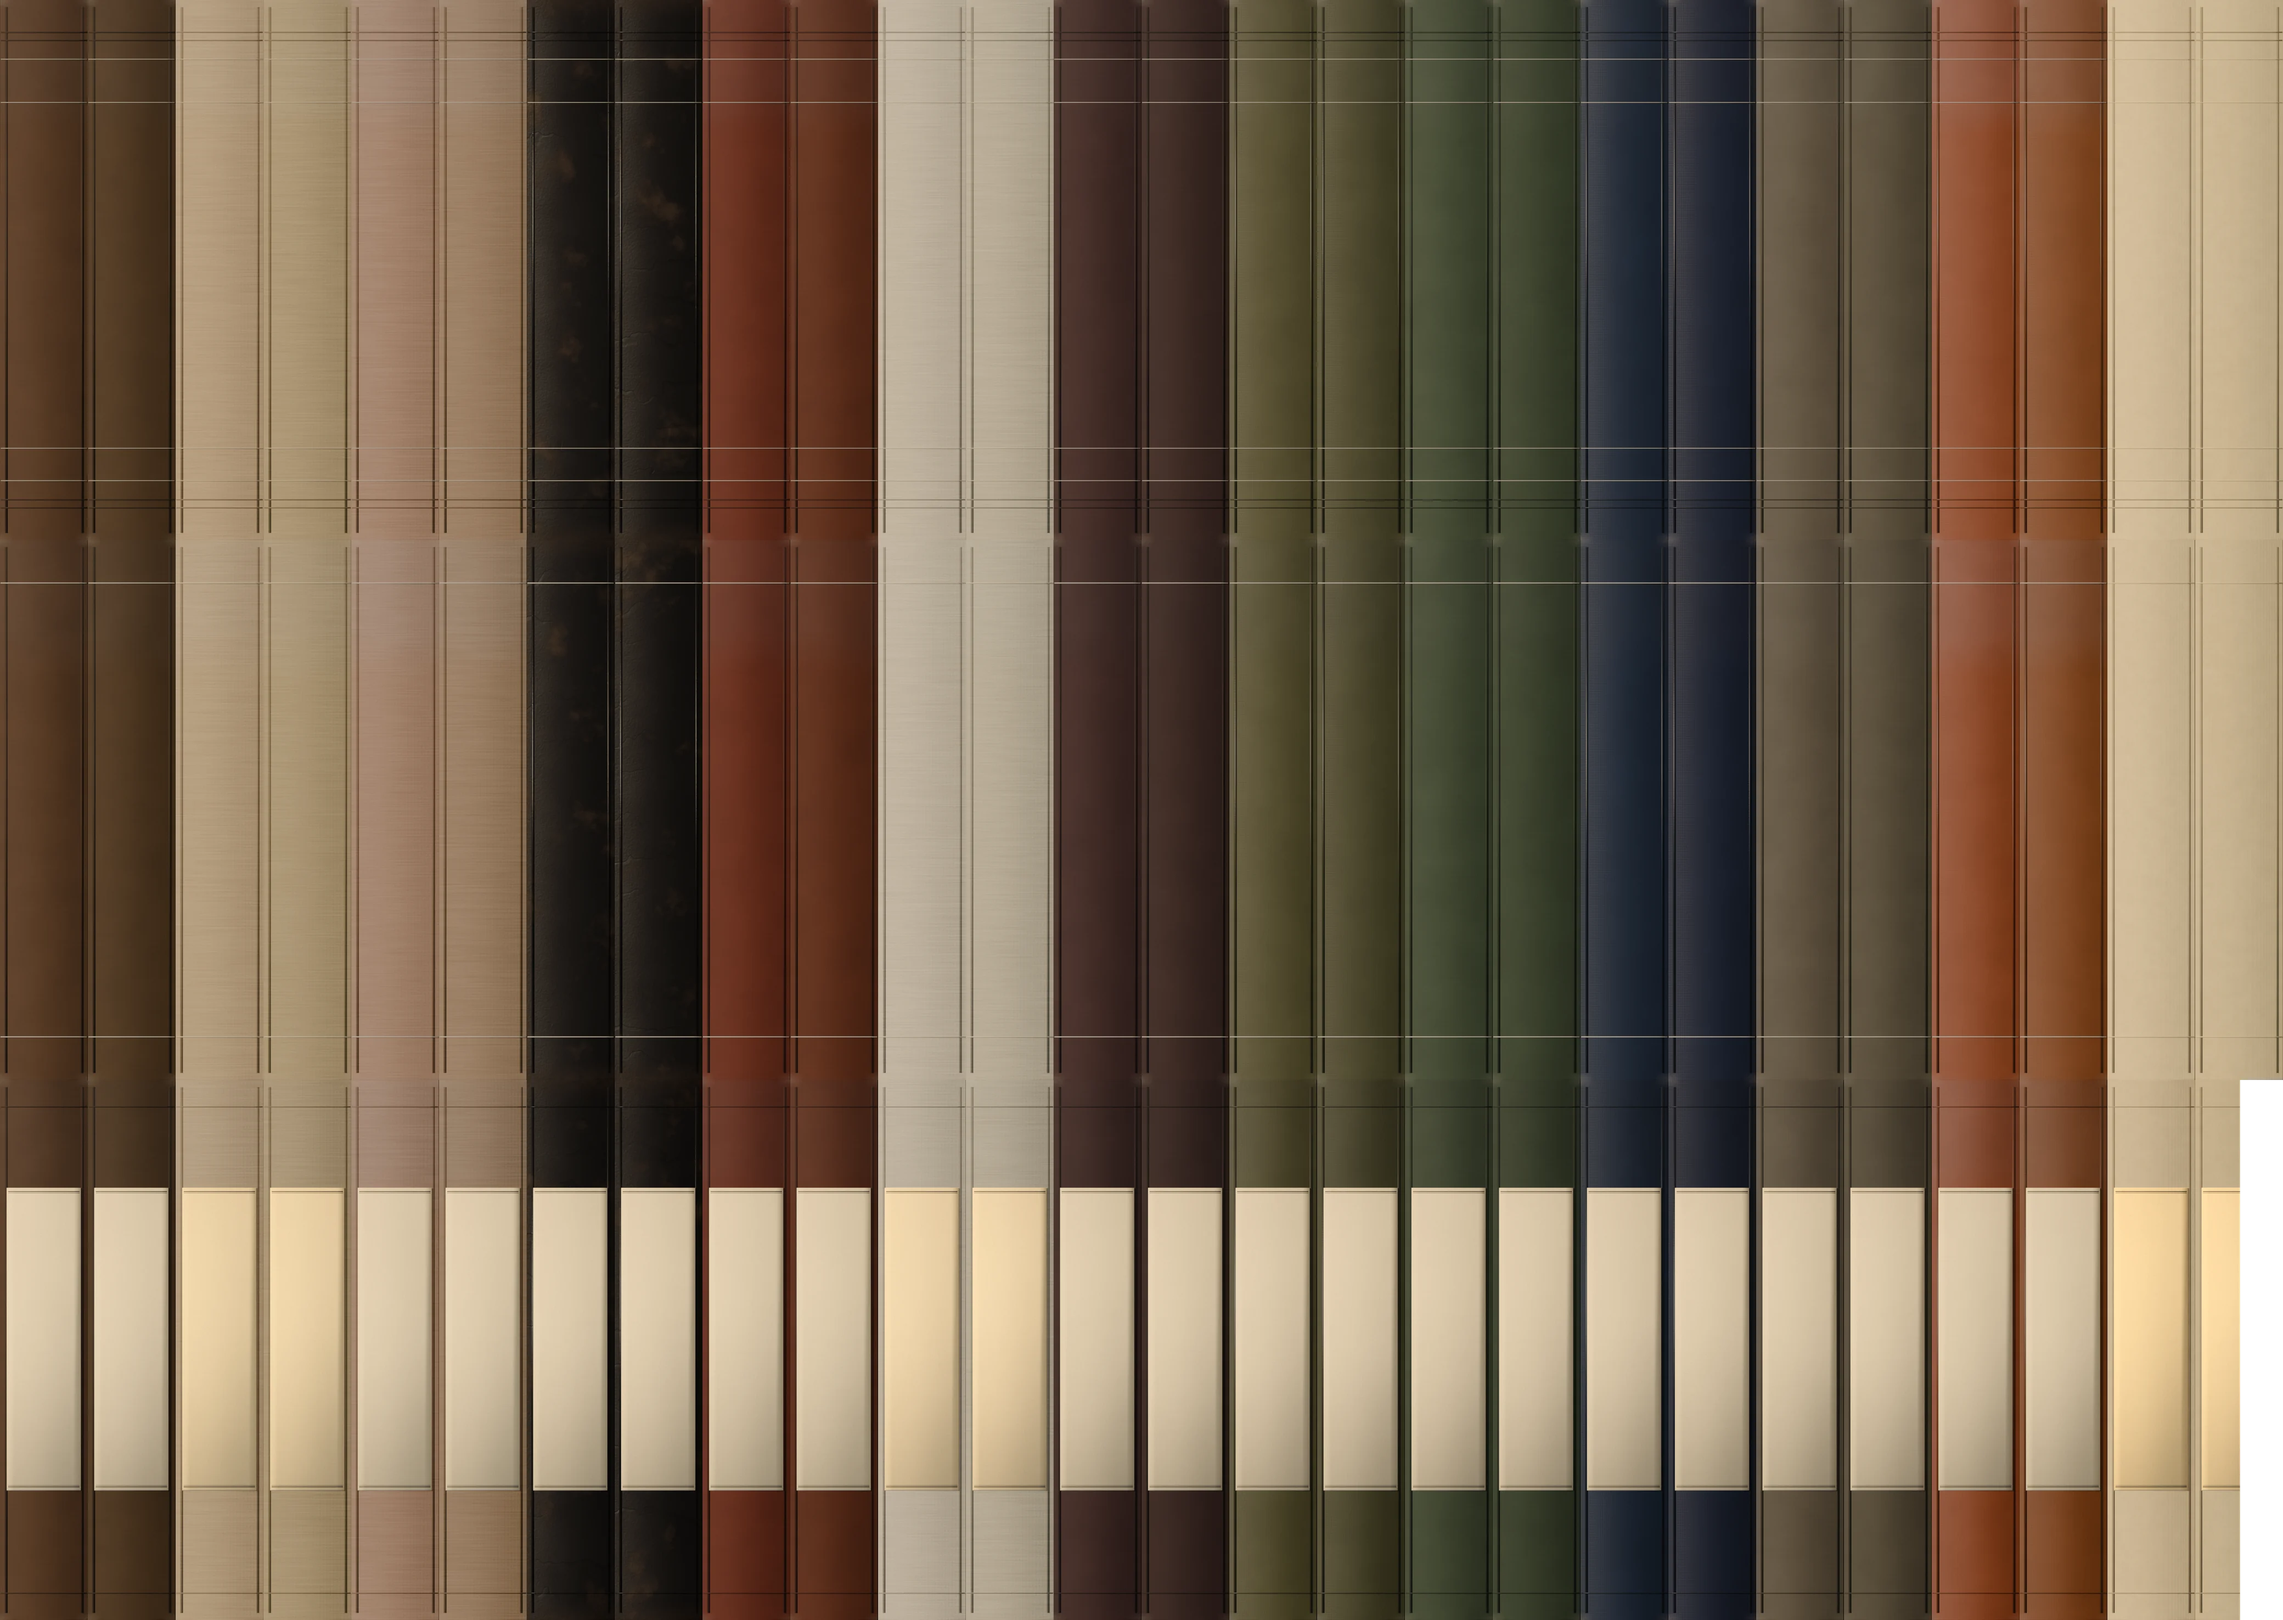
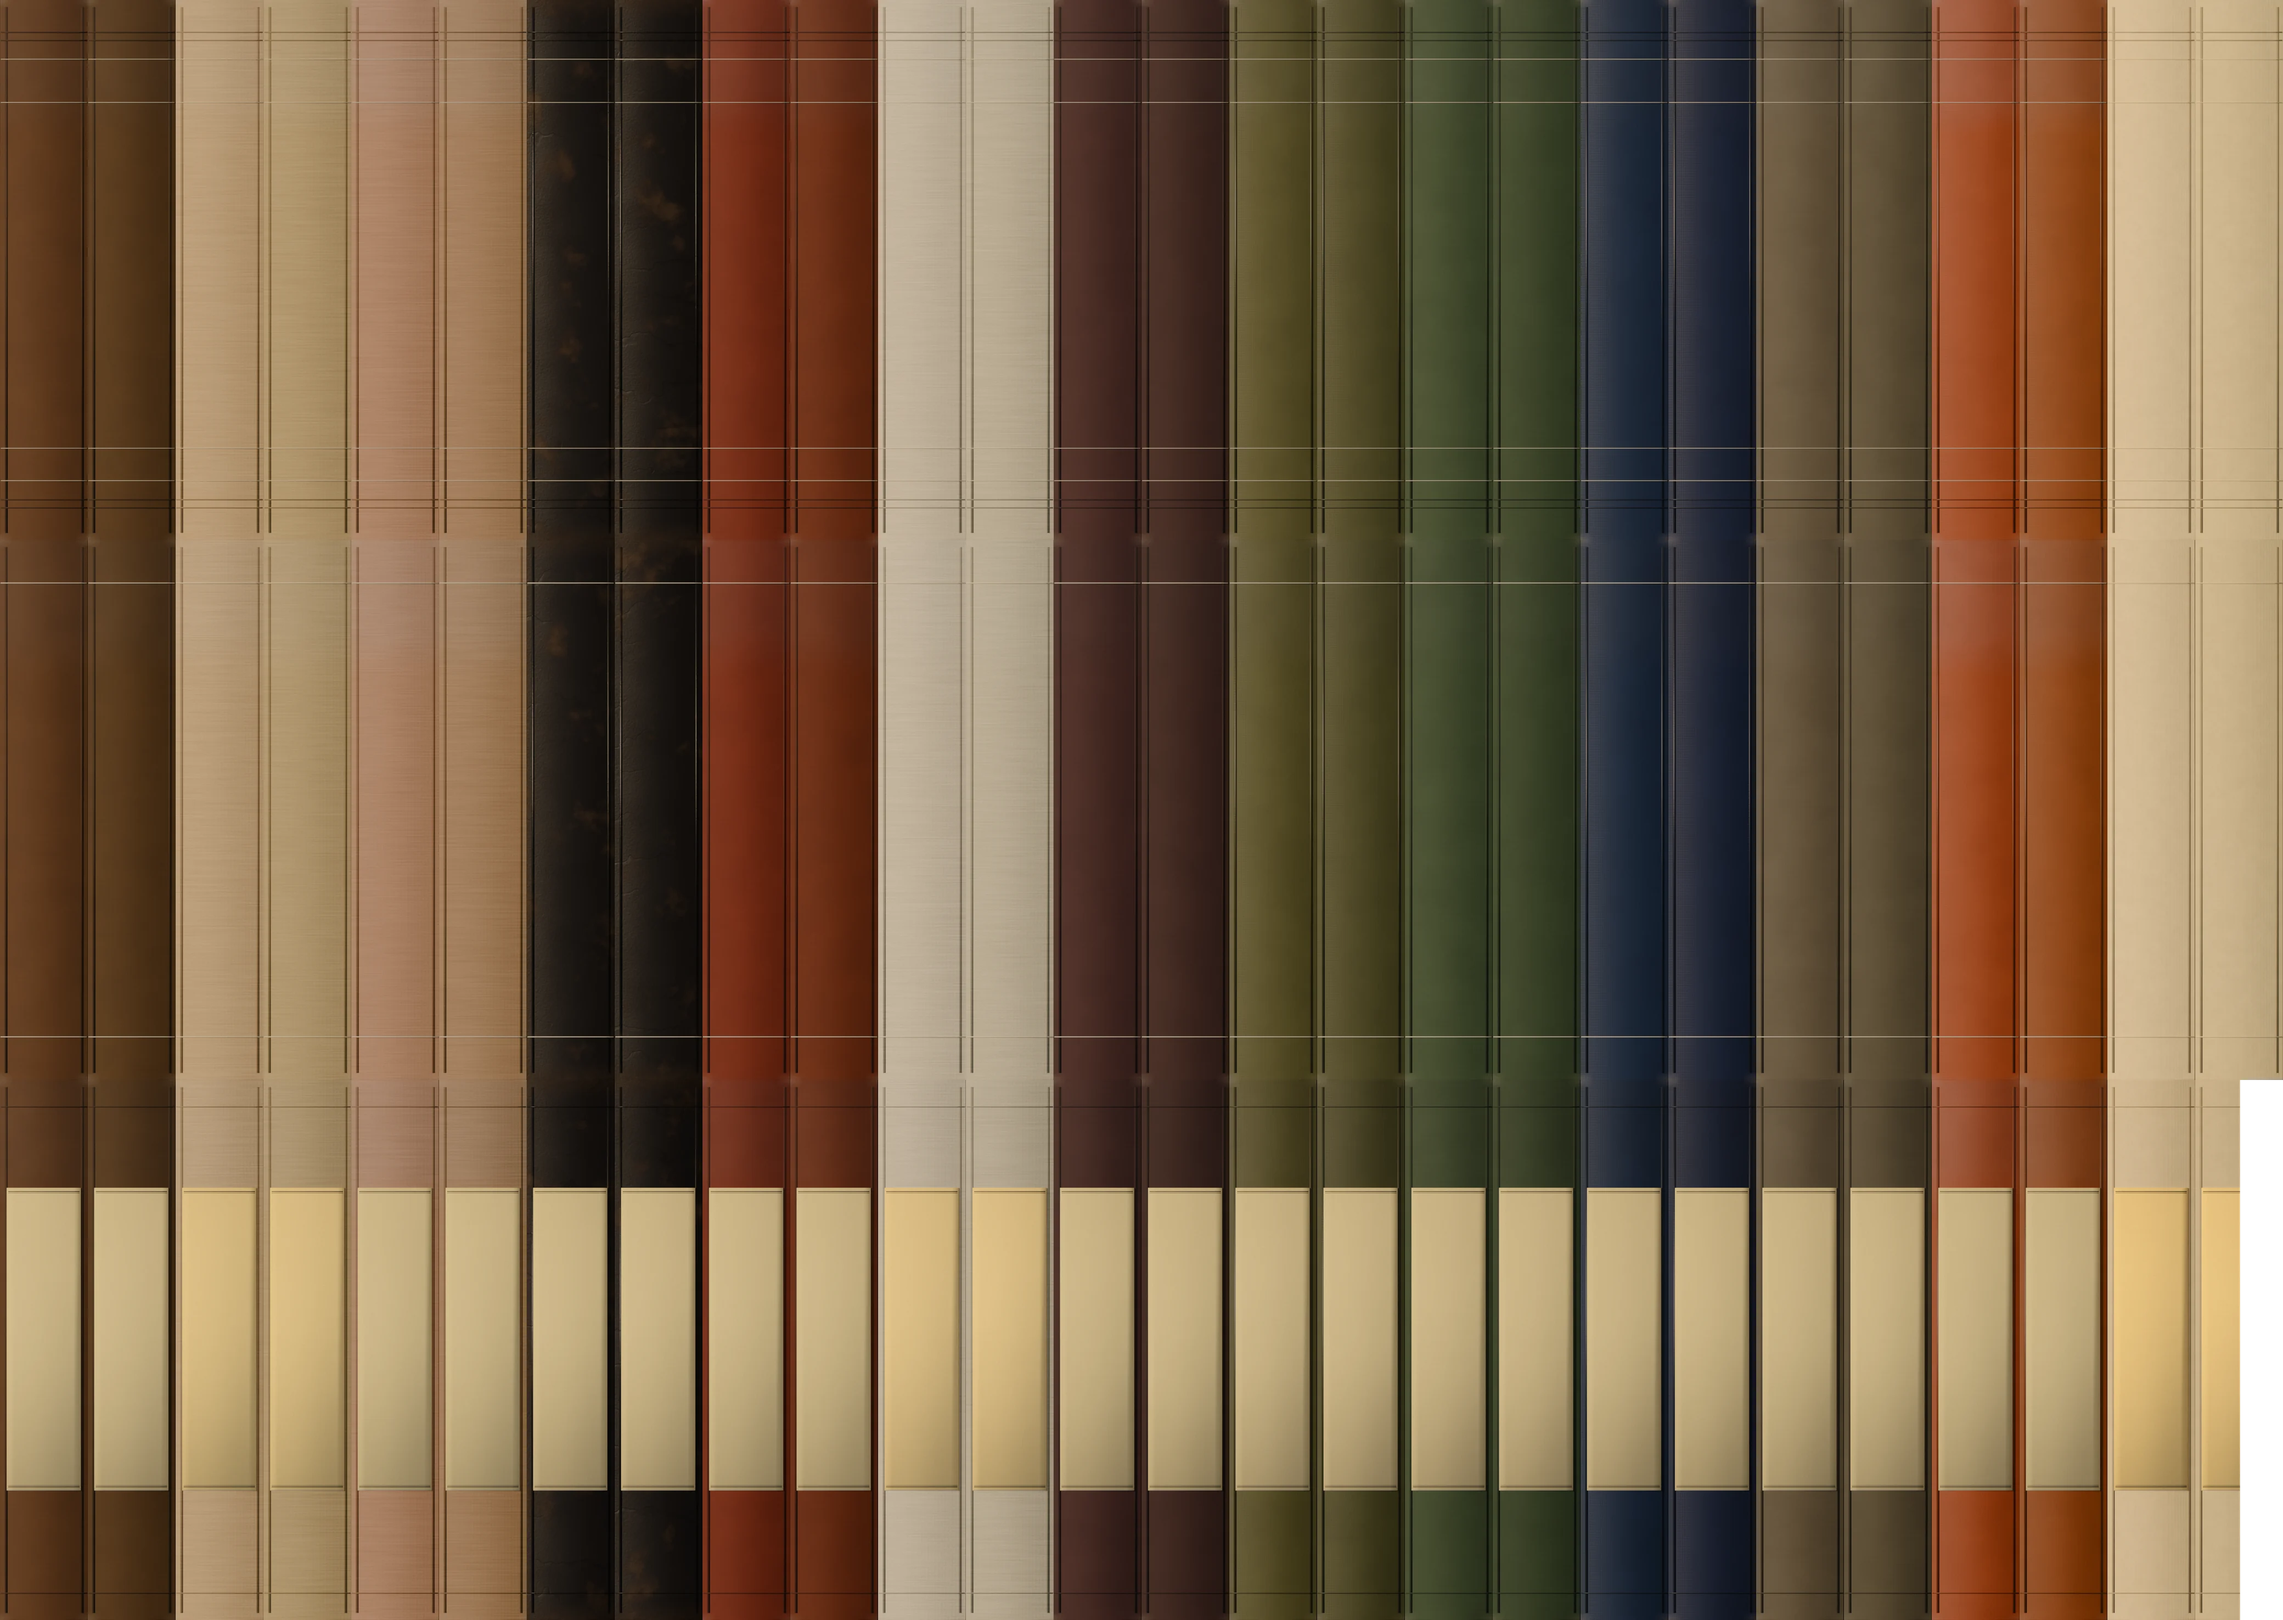
Ivory/Sumi: more saturated spines; Sumi tags to light ochre

Changed region(s): [[0.0, 0.7168, 1.0, 0.935]]

diff --git a/index.html b/index.html
@@ -1041,8 +1041,8 @@ body.portrait:not(.compact) .topbar .lbl{display:none}
 :root[data-theme=sumi] .spine.light .t{color:#1F1C19;font-weight:inherit;background:none;box-shadow:none;text-shadow:none}
 :root[data-theme=sumi] .spine.light .t::after{display:none}
 :root[data-theme=sumi] .spine.plabel .t{color:#1F1C19;background:none;box-shadow:none;text-shadow:none}
-:root[data-theme=sumi] .shelf .genre-tag,:root[data-theme=sumi] .shelf .range-tag{background:linear-gradient(#E9E0CE,#D3C8B2);color:#25221E;box-shadow:0 0 0 1px #24221F,inset 0 1px 0 rgba(255,255,255,.35),0 1px 2px rgba(0,0,0,.4);font-size:8.5px;text-shadow:none}
-:root[data-theme=sumi] .spine .slip{background:linear-gradient(#E9E0CE,#CFC4AE)}
+:root[data-theme=sumi] .shelf .genre-tag,:root[data-theme=sumi] .shelf .range-tag{background:linear-gradient(#D8C497,#BFA774);color:#2A2218;box-shadow:0 0 0 1px #24221F,inset 0 1px 0 rgba(255,255,255,.35),0 1px 2px rgba(0,0,0,.4);font-size:8.5px;text-shadow:none}
+:root[data-theme=sumi] .spine .slip{background:linear-gradient(#D8C497,#BCA571)}
 :root[data-theme=sumi] .spine .lent{background-color:#E2D8C4}
 :root[data-theme=sumi] .spine .sno{color:#D6CBB3;text-shadow:0 .5px 0 rgba(0,0,0,.5)}
 :root[data-theme=sumi] .wall.zoomed .shelf.z::after{background:linear-gradient(180deg,rgba(0,0,0,.10) 0,rgba(0,0,0,.20) 50%,rgba(0,0,0,.30));mix-blend-mode:normal}
@@ -1079,7 +1079,7 @@ const FORMATS = ['Hardback', 'Paperback', 'Ebook', 'Audiobook', 'Library loan', 
 const COLORS = SPR.colors;          // binding colours, same order as the sprite atlas columns
 const STYLES = SPR.styles;          // antique | smooth | label
 /* ---------- colour themes: the classic mahogany room plus recoloured sets under themes/<id>/ ---------- */
-const THEMES = {"classic": {"name": "Classic Mahogany", "blurb": "The original \u2014 polished mahogany, brass lamps, candlelight", "swatch": ["#4a2616", "#c9a45a", "#e9dcc0"], "colors": [], "chrome": "#0b0c0c"}, "sage": {"name": "Sage", "blurb": "Painted sage joinery, limed oak, pewter and afternoon light", "swatch": ["#8E9A88", "#CFCABB", "#EEE8DA"], "colors": ["#4d382a", "#6e5c47", "#70675e", "#2a251f", "#69453b", "#665f57", "#433336", "#3e402d", "#2d3b31", "#292e3c", "#41484d", "#66362a", "VELLUM"], "chrome": "#0b0c0c", "light": [1, 2, 5, 12], "weights": [9, 5, 6, 8, 8, 4, 8, 9, 8, 9, 8, 7, 6], "variants": 2, "rendered": true, "geo": {"flames": [[402.1, 316.0], [777.9, 316.0]], "hoods": [], "sun": [[0, 0], [760, 0], [520, 820], [0, 820]], "ladder": {"x": 847.5, "y": 117.5, "x1": 966.0, "y1": 820.0, "cx": 885.5}}}, "ivory": {"name": "Ivory", "blurb": "Ivory panelled joinery, brushed brass, pleated shades and soft daylight", "swatch": ["#E2DCD1", "#CDBA92", "#2A5450"], "colors": ["#3b291e", "#7d6a55", "#7d7567", "#211f1f", "#493938", "#857c6d", "#3a2b31", "#35382a", "#23403b", "#1a202e", "#2c373f", "#513221", "VELLUM"], "chrome": "#0b0c0c", "light": [1, 2, 5, 12], "weights": [9, 5, 6, 8, 7, 5, 7, 7, 10, 10, 8, 7, 6], "variants": 2, "rendered": true, "geo": {"flames": [[401.5, 328.1], [778.5, 328.1]], "hoods": [], "ladder": {"x": 847.5, "y": 117.5, "x1": 966.0, "y1": 820.0, "cx": 885.5}}}, "sumi": {"name": "Sumi", "blurb": "Dark Japandi: charcoal plaster, smoked oak, washi lanterns at dusk", "swatch": ["#2A1D15", "#CDBFA2", "#B0623E"], "colors": ["#3a2819", "#7b6a55", "#6f5a4a", "#161310", "#442014", "#82796c", "#2c1e1a", "#3b3623", "#2e3123", "#1a1f26", "#42392d", "#613520", "VELLUM"], "chrome": "#0b0c0c", "light": [1, 2, 5, 12], "weights": [9, 6, 6, 9, 7, 5, 7, 8, 8, 9, 7, 8, 6], "variants": 2, "rendered": true, "geo": {"flames": [[402.8, 343.9], [777.2, 343.9]], "hoods": [], "ladder": {"x": 847.5, "y": 118.5, "x1": 966.0, "y1": 820.0, "cx": 885.5}}}};
+const THEMES = {"classic": {"name": "Classic Mahogany", "blurb": "The original \u2014 polished mahogany, brass lamps, candlelight", "swatch": ["#4a2616", "#c9a45a", "#e9dcc0"], "colors": [], "chrome": "#0b0c0c"}, "sage": {"name": "Sage", "blurb": "Painted sage joinery, limed oak, pewter and afternoon light", "swatch": ["#8E9A88", "#CFCABB", "#EEE8DA"], "colors": ["#4d382a", "#6e5c47", "#70675e", "#2a251f", "#69453b", "#665f57", "#433336", "#3e402d", "#2d3b31", "#292e3c", "#41484d", "#66362a", "VELLUM"], "chrome": "#0b0c0c", "light": [1, 2, 5, 12], "weights": [9, 5, 6, 8, 8, 4, 8, 9, 8, 9, 8, 7, 6], "variants": 2, "rendered": true, "geo": {"flames": [[402.1, 316.0], [777.9, 316.0]], "hoods": [], "sun": [[0, 0], [760, 0], [520, 820], [0, 820]], "ladder": {"x": 847.5, "y": 117.5, "x1": 966.0, "y1": 820.0, "cx": 885.5}}}, "ivory": {"name": "Ivory", "blurb": "Ivory panelled joinery, brushed brass, pleated shades and soft daylight", "swatch": ["#E2DCD1", "#CDBA92", "#2A5450"], "colors": ["#3f281a", "#816a50", "#7f7465", "#211f1e", "#4d3837", "#877b6a", "#3d2a31", "#343927", "#1d423b", "#182032", "#293842", "#58301a", "VELLUM"], "chrome": "#0b0c0c", "light": [1, 2, 5, 12], "weights": [9, 5, 6, 8, 7, 5, 7, 7, 10, 10, 8, 7, 6], "variants": 2, "rendered": true, "geo": {"flames": [[401.5, 328.1], [778.5, 328.1]], "hoods": [], "ladder": {"x": 847.5, "y": 117.5, "x1": 966.0, "y1": 820.0, "cx": 885.5}}}, "sumi": {"name": "Sumi", "blurb": "Dark Japandi: charcoal plaster, smoked oak, washi lanterns at dusk", "swatch": ["#2A1D15", "#CDBFA2", "#B0623E"], "colors": ["#3f2714", "#7e6a51", "#745944", "#16120f", "#4d1e0f", "#83796a", "#301d18", "#3d361d", "#2d321f", "#191f29", "#443929", "#6c3318", "VELLUM"], "chrome": "#0b0c0c", "light": [1, 2, 5, 12], "weights": [9, 6, 6, 9, 7, 5, 7, 8, 8, 9, 7, 8, 6], "variants": 2, "rendered": true, "geo": {"flames": [[402.8, 343.9], [777.2, 343.9]], "hoods": [], "ladder": {"x": 847.5, "y": 118.5, "x1": 966.0, "y1": 820.0, "cx": 885.5}}}};
 const CLASSIC_COLORS = COLORS.slice();
 const GEO_THEMED = ['flames', 'hoods', 'ladder', 'sun'], GEO_CLASSIC = Object.fromEntries(GEO_THEMED.map((k) => [k, GEO[k]]));
 function lightBinding(ci) { const t = THEMES[themeId()]; return t && t.light ? t.light.includes(ci) : COLORS[ci] === 'VELLUM'; } // bindings lettered in ink rather than foil

diff --git a/sw.js b/sw.js
@@ -1,7 +1,7 @@
 /* The Library — service worker.
  * Bump VERSION on every deploy that changes any precached file, so clients pick up the new shell.
  */
-const VERSION = 'lib-v53';
+const VERSION = 'lib-v54';
 
 const SHELL_CACHE = 'shell-' + VERSION;
 const COVERS_CACHE = 'covers';          // shared across versions, capped below
